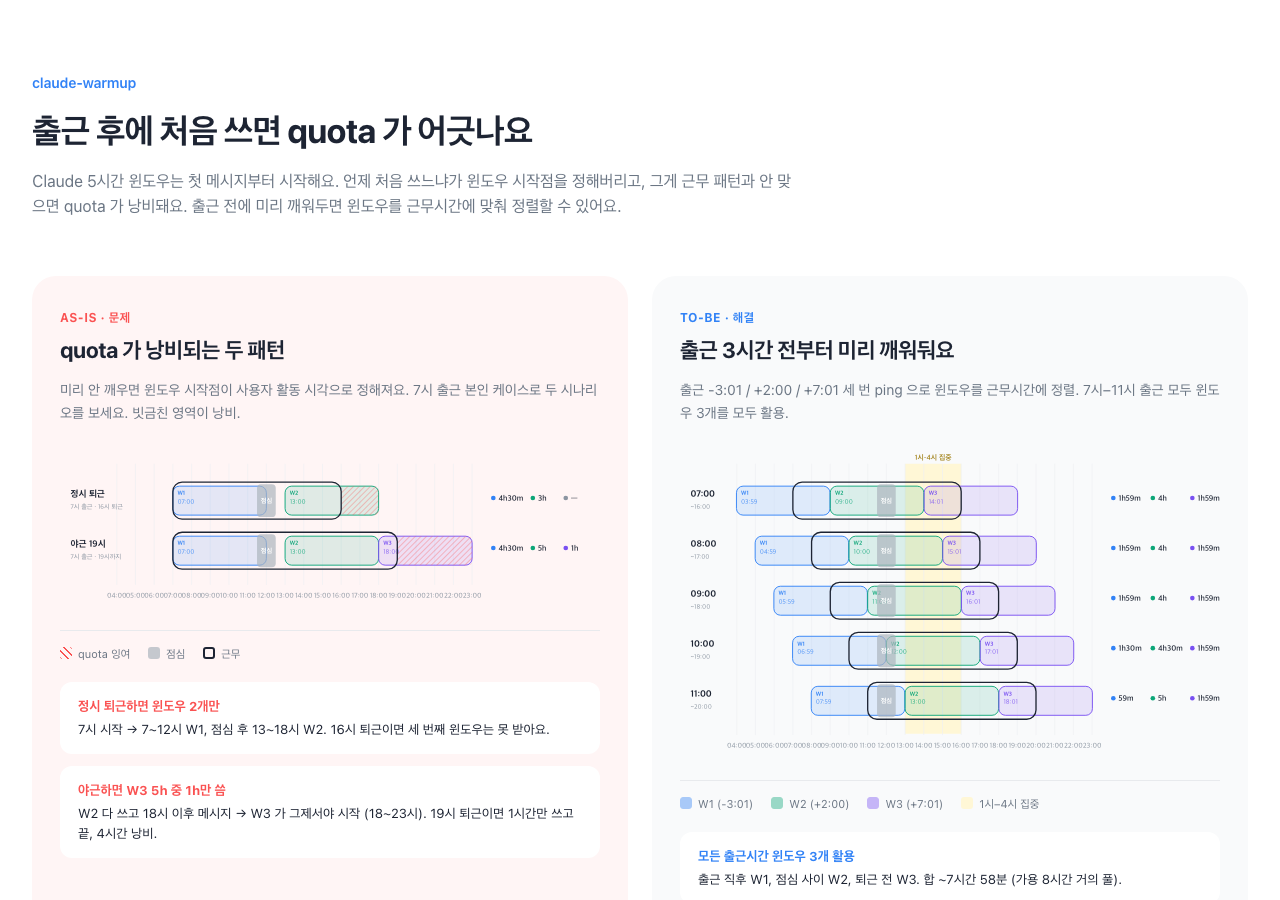
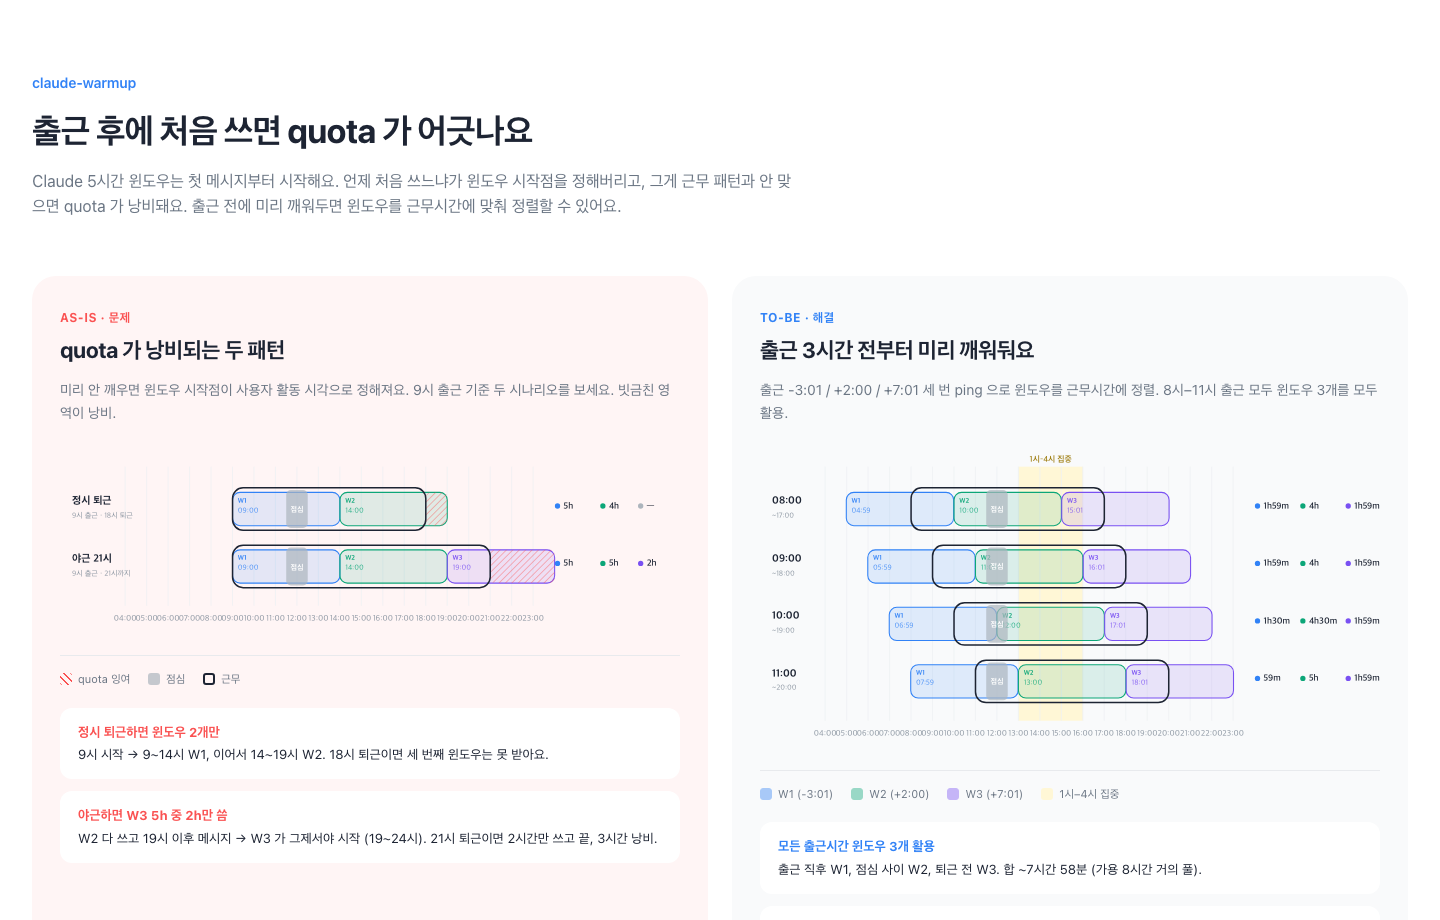
feat(projects): claude 도구 시각 표현 — ASCII code block + warmup 익명화
- claude-watch: 세션 모니터 TUI를 4섹션·9세션 ASCII code block으로 (html iframe 제거)
- claude-dashboard-patches: status line 정상/경고 예시를 code block으로
- claude-warmup: quota 그래프를 9시 출근 표준으로 재작성(본인 7-16시·야근 19시 제거) + iframe 연결

diff --git a/public/dashboards/claude-warmup.html b/public/dashboards/claude-warmup.html
@@ -1,0 +1,207 @@
+<!doctype html>
+<html lang="ko">
+<head>
+<meta charset="utf-8">
+<title>claude-warmup</title>
+<style>
+  :root {
+    --primary: #3182f6;
+    --problem: #fa5252;
+    --text: #1d2433;
+    --sub: #6b7684;
+    --line: #e8eaed;
+    --bg: #ffffff;
+    --card: #f9fafb;
+    --card-problem: #fff5f5;
+  }
+  * { box-sizing: border-box; }
+  body {
+    margin: 0;
+    background: var(--bg);
+    color: var(--text);
+    font-family: 'Pretendard', -apple-system, BlinkMacSystemFont, sans-serif;
+    line-height: 1.6;
+    -webkit-font-smoothing: antialiased;
+  }
+  .container {
+    max-width: 1440px;
+    margin: 0 auto;
+    padding: 72px 32px 96px;
+  }
+  .eyebrow {
+    font-size: 14px;
+    color: var(--primary);
+    font-weight: 600;
+    margin-bottom: 14px;
+    letter-spacing: -0.01em;
+  }
+  h1 {
+    font-size: 34px;
+    font-weight: 700;
+    margin: 0 0 16px;
+    letter-spacing: -0.02em;
+    line-height: 1.3;
+  }
+  .sub {
+    font-size: 16px;
+    color: var(--sub);
+    margin: 0 0 56px;
+    max-width: 760px;
+  }
+
+  .compare {
+    display: grid;
+    grid-template-columns: 1fr 1fr;
+    gap: 24px;
+    margin-bottom: 56px;
+  }
+  .col {
+    background: var(--card);
+    border-radius: 24px;
+    padding: 32px 28px 24px;
+    display: flex;
+    flex-direction: column;
+  }
+  .col-problem { background: var(--card-problem); }
+
+  .col-label {
+    font-size: 12px;
+    font-weight: 700;
+    text-transform: uppercase;
+    letter-spacing: 0.04em;
+    margin-bottom: 6px;
+  }
+  .col-label.problem { color: var(--problem); }
+  .col-label.solution { color: var(--primary); }
+  .col h2 {
+    font-size: 22px;
+    font-weight: 700;
+    margin: 0 0 10px;
+    letter-spacing: -0.015em;
+  }
+  .col-desc {
+    font-size: 14px;
+    color: var(--sub);
+    margin: 0 0 20px;
+    line-height: 1.65;
+  }
+  .col svg {
+    width: 100%;
+    height: auto;
+    display: block;
+  }
+  .col-takeaways {
+    margin-top: 20px;
+    display: flex;
+    flex-direction: column;
+    gap: 12px;
+  }
+  .takeaway {
+    background: white;
+    border-radius: 12px;
+    padding: 14px 18px;
+    font-size: 13px;
+    color: var(--text);
+    line-height: 1.6;
+  }
+  .takeaway strong {
+    display: block;
+    color: var(--problem);
+    font-weight: 700;
+    margin-bottom: 2px;
+    font-size: 13px;
+  }
+  .col-solution .takeaway strong { color: var(--primary); }
+
+  .legend {
+    display: flex;
+    flex-wrap: wrap;
+    gap: 10px 18px;
+    padding-top: 14px;
+    border-top: 1px solid var(--line);
+    margin-top: 14px;
+  }
+  .legend-item {
+    display: flex;
+    align-items: center;
+    gap: 6px;
+    font-size: 11px;
+    color: var(--sub);
+  }
+  .legend-dot {
+    width: 12px;
+    height: 12px;
+    border-radius: 3px;
+  }
+
+  .footer {
+    margin-top: 56px;
+    padding-top: 28px;
+    border-top: 1px solid var(--line);
+    color: var(--sub);
+    font-size: 13px;
+  }
+  code { background: #eef0f3; padding: 2px 8px; border-radius: 6px; font-size: 13px; font-family: 'SF Mono', Menlo, monospace; }
+</style>
+</head>
+<body>
+<div class="container">
+  <div class="eyebrow">claude-warmup</div>
+  <h1>출근 후에 처음 쓰면 quota 가 어긋나요</h1>
+  <p class="sub">Claude 5시간 윈도우는 첫 메시지부터 시작해요. 언제 처음 쓰느냐가 윈도우 시작점을 정해버리고, 그게 근무 패턴과 안 맞으면 quota 가 낭비돼요. 출근 전에 미리 깨워두면 윈도우를 근무시간에 맞춰 정렬할 수 있어요.</p>
+
+  <div class="compare">
+    <!-- 왼쪽: 문제 -->
+    <div class="col col-problem">
+      <div class="col-label problem">AS-IS · 문제</div>
+      <h2>quota 가 낭비되는 두 패턴</h2>
+      <p class="col-desc">미리 안 깨우면 윈도우 시작점이 사용자 활동 시각으로 정해져요. 9시 출근 기준 두 시나리오를 보세요. 빗금친 영역이 낭비.</p>
+      <svg viewBox="0 0 820 260" xmlns="http://www.w3.org/2000/svg" font-family="Pretendard, -apple-system, sans-serif"><defs><pattern id="hatch" patternUnits="userSpaceOnUse" width="6" height="6" patternTransform="rotate(45)"><line x1="0" y1="0" x2="0" y2="6" stroke="#fa5252" stroke-width="2"/></pattern></defs><line x1="86.2" y1="30" x2="86.2" y2="214" stroke="#eef0f3" stroke-width="1" /><text x="86.2" y="234" text-anchor="middle" font-size="11" fill="#8b95a1">04:00</text><line x1="114.6" y1="30" x2="114.6" y2="214" stroke="#eef0f3" stroke-width="1" /><text x="114.6" y="234" text-anchor="middle" font-size="11" fill="#8b95a1">05:00</text><line x1="143.0" y1="30" x2="143.0" y2="214" stroke="#eef0f3" stroke-width="1" /><text x="143.0" y="234" text-anchor="middle" font-size="11" fill="#8b95a1">06:00</text><line x1="171.39999999999998" y1="30" x2="171.39999999999998" y2="214" stroke="#eef0f3" stroke-width="1" /><text x="171.39999999999998" y="234" text-anchor="middle" font-size="11" fill="#8b95a1">07:00</text><line x1="199.8" y1="30" x2="199.8" y2="214" stroke="#eef0f3" stroke-width="1" /><text x="199.8" y="234" text-anchor="middle" font-size="11" fill="#8b95a1">08:00</text><line x1="228.2" y1="30" x2="228.2" y2="214" stroke="#eef0f3" stroke-width="1" /><text x="228.2" y="234" text-anchor="middle" font-size="11" fill="#8b95a1">09:00</text><line x1="256.59999999999997" y1="30" x2="256.59999999999997" y2="214" stroke="#eef0f3" stroke-width="1" /><text x="256.59999999999997" y="234" text-anchor="middle" font-size="11" fill="#8b95a1">10:00</text><line x1="285.0" y1="30" x2="285.0" y2="214" stroke="#eef0f3" stroke-width="1" /><text x="285.0" y="234" text-anchor="middle" font-size="11" fill="#8b95a1">11:00</text><line x1="313.4" y1="30" x2="313.4" y2="214" stroke="#eef0f3" stroke-width="1" /><text x="313.4" y="234" text-anchor="middle" font-size="11" fill="#8b95a1">12:00</text><line x1="341.8" y1="30" x2="341.8" y2="214" stroke="#eef0f3" stroke-width="1" /><text x="341.8" y="234" text-anchor="middle" font-size="11" fill="#8b95a1">13:00</text><line x1="370.2" y1="30" x2="370.2" y2="214" stroke="#eef0f3" stroke-width="1" /><text x="370.2" y="234" text-anchor="middle" font-size="11" fill="#8b95a1">14:00</text><line x1="398.59999999999997" y1="30" x2="398.59999999999997" y2="214" stroke="#eef0f3" stroke-width="1" /><text x="398.59999999999997" y="234" text-anchor="middle" font-size="11" fill="#8b95a1">15:00</text><line x1="426.99999999999994" y1="30" x2="426.99999999999994" y2="214" stroke="#eef0f3" stroke-width="1" /><text x="426.99999999999994" y="234" text-anchor="middle" font-size="11" fill="#8b95a1">16:00</text><line x1="455.4" y1="30" x2="455.4" y2="214" stroke="#eef0f3" stroke-width="1" /><text x="455.4" y="234" text-anchor="middle" font-size="11" fill="#8b95a1">17:00</text><line x1="483.79999999999995" y1="30" x2="483.79999999999995" y2="214" stroke="#eef0f3" stroke-width="1" /><text x="483.79999999999995" y="234" text-anchor="middle" font-size="11" fill="#8b95a1">18:00</text><line x1="512.2" y1="30" x2="512.2" y2="214" stroke="#eef0f3" stroke-width="1" /><text x="512.2" y="234" text-anchor="middle" font-size="11" fill="#8b95a1">19:00</text><line x1="540.6" y1="30" x2="540.6" y2="214" stroke="#eef0f3" stroke-width="1" /><text x="540.6" y="234" text-anchor="middle" font-size="11" fill="#8b95a1">20:00</text><line x1="569.0" y1="30" x2="569.0" y2="214" stroke="#eef0f3" stroke-width="1" /><text x="569.0" y="234" text-anchor="middle" font-size="11" fill="#8b95a1">21:00</text><line x1="597.4" y1="30" x2="597.4" y2="214" stroke="#eef0f3" stroke-width="1" /><text x="597.4" y="234" text-anchor="middle" font-size="11" fill="#8b95a1">22:00</text><line x1="625.8000000000001" y1="30" x2="625.8000000000001" y2="214" stroke="#eef0f3" stroke-width="1" /><text x="625.8000000000001" y="234" text-anchor="middle" font-size="11" fill="#8b95a1">23:00</text><text x="16" y="80" font-size="14" font-weight="700" fill="#1d2433">정시 퇴근</text><text x="16" y="98" font-size="10" fill="#8b95a1">9시 출근 · 18시 퇴근</text><rect x="228.2" y="64" width="142.0" height="44" rx="10" fill="#3182f6" fill-opacity="0.13" stroke="#3182f6" stroke-width="1.4" /><text x="235.2" y="78" font-size="9" font-weight="700" fill="#3182f6">W1</text><text x="235.2" y="91" font-size="10" fill="#3182f6" opacity="0.85">09:00</text><rect x="370.2" y="64" width="142.0" height="44" rx="10" fill="#0ca678" fill-opacity="0.13" stroke="#0ca678" stroke-width="1.4" /><text x="377.2" y="78" font-size="9" font-weight="700" fill="#0ca678">W2</text><text x="377.2" y="91" font-size="10" fill="#0ca678" opacity="0.85">14:00</text><rect x="483.79999999999995" y="64" width="28.4" height="44" rx="6" fill="url(#hatch)" opacity="0.5" /><rect x="299.2" y="61" width="28.4" height="50" fill="#adb5bd" fill-opacity="0.7" rx="6" /><text x="313.4" y="90" text-anchor="middle" font-size="10" font-weight="700" fill="white">점심</text><rect x="228.2" y="58" width="255.6" height="56" fill="none" stroke="#1d2433" stroke-width="2" rx="14" /><circle cx="658" cy="82" r="3.5" fill="#3182f6" /><text x="666" y="86" font-size="12" font-weight="600" fill="#1d2433">5h</text><circle cx="718" cy="82" r="3.5" fill="#0ca678" /><text x="726" y="86" font-size="12" font-weight="600" fill="#1d2433">4h</text><circle cx="768" cy="82" r="3.5" fill="#adb5bd" /><text x="776" y="86" font-size="12" font-weight="600" fill="#1d2433">—</text><text x="16" y="156" font-size="14" font-weight="700" fill="#1d2433">야근 21시</text><text x="16" y="174" font-size="10" fill="#8b95a1">9시 출근 · 21시까지</text><rect x="228.2" y="140" width="142.0" height="44" rx="10" fill="#3182f6" fill-opacity="0.13" stroke="#3182f6" stroke-width="1.4" /><text x="235.2" y="154" font-size="9" font-weight="700" fill="#3182f6">W1</text><text x="235.2" y="167" font-size="10" fill="#3182f6" opacity="0.85">09:00</text><rect x="370.2" y="140" width="142.0" height="44" rx="10" fill="#0ca678" fill-opacity="0.13" stroke="#0ca678" stroke-width="1.4" /><text x="377.2" y="154" font-size="9" font-weight="700" fill="#0ca678">W2</text><text x="377.2" y="167" font-size="10" fill="#0ca678" opacity="0.85">14:00</text><rect x="512.2" y="140" width="142.0" height="44" rx="10" fill="#7950f2" fill-opacity="0.13" stroke="#7950f2" stroke-width="1.4" /><text x="519.2" y="154" font-size="9" font-weight="700" fill="#7950f2">W3</text><text x="519.2" y="167" font-size="10" fill="#7950f2" opacity="0.85">19:00</text><rect x="569.0" y="140" width="85.19999999999999" height="44" rx="6" fill="url(#hatch)" opacity="0.5" /><rect x="299.2" y="137" width="28.4" height="50" fill="#adb5bd" fill-opacity="0.7" rx="6" /><text x="313.4" y="166" text-anchor="middle" font-size="10" font-weight="700" fill="white">점심</text><rect x="228.2" y="134" width="340.79999999999995" height="56" fill="none" stroke="#1d2433" stroke-width="2" rx="14" /><circle cx="658" cy="158" r="3.5" fill="#3182f6" /><text x="666" y="162" font-size="12" font-weight="600" fill="#1d2433">5h</text><circle cx="718" cy="158" r="3.5" fill="#0ca678" /><text x="726" y="162" font-size="12" font-weight="600" fill="#1d2433">5h</text><circle cx="768" cy="158" r="3.5" fill="#7950f2" /><text x="776" y="162" font-size="12" font-weight="600" fill="#1d2433">2h</text></svg>
+      <div class="legend">
+        <div class="legend-item"><div class="legend-dot" style="background:repeating-linear-gradient(45deg,#fa5252,#fa5252 2px,transparent 2px,transparent 5px)"></div>quota 잉여</div>
+        <div class="legend-item"><div class="legend-dot" style="background:#adb5bd;opacity:0.7"></div>점심</div>
+        <div class="legend-item"><div class="legend-dot" style="background:none;border:2px solid #1d2433"></div>근무</div>
+      </div>
+      <div class="col-takeaways">
+        <div class="takeaway">
+          <strong>정시 퇴근하면 윈도우 2개만</strong>
+          9시 시작 → 9~14시 W1, 이어서 14~19시 W2. 18시 퇴근이면 세 번째 윈도우는 못 받아요.
+        </div>
+        <div class="takeaway">
+          <strong>야근하면 W3 5h 중 2h만 씀</strong>
+          W2 다 쓰고 19시 이후 메시지 → W3 가 그제서야 시작 (19~24시). 21시 퇴근이면 2시간만 쓰고 끝, 3시간 낭비.
+        </div>
+      </div>
+    </div>
+
+    <!-- 오른쪽: 해결 -->
+    <div class="col col-solution">
+      <div class="col-label solution">TO-BE · 해결</div>
+      <h2>출근 3시간 전부터 미리 깨워둬요</h2>
+      <p class="col-desc">출근 -3:01 / +2:00 / +7:01 세 번 ping 으로 윈도우를 근무시간에 정렬. 8시–11시 출근 모두 윈도우 3개를 모두 활용.</p>
+      <svg viewBox="0 0 820 412" xmlns="http://www.w3.org/2000/svg" font-family="Pretendard, -apple-system, sans-serif"><defs><pattern id="hatch" patternUnits="userSpaceOnUse" width="6" height="6" patternTransform="rotate(45)"><line x1="0" y1="0" x2="0" y2="6" stroke="#fa5252" stroke-width="2"/></pattern></defs><rect x="341.8" y="30" width="85.2" height="336" fill="#fff7d6" /><text x="384.4" y="24" text-anchor="middle" font-size="11" font-weight="600" fill="#9e7d10">1시–4시 집중</text><line x1="86.2" y1="30" x2="86.2" y2="366" stroke="#eef0f3" stroke-width="1" /><text x="86.2" y="386" text-anchor="middle" font-size="11" fill="#8b95a1">04:00</text><line x1="114.6" y1="30" x2="114.6" y2="366" stroke="#eef0f3" stroke-width="1" /><text x="114.6" y="386" text-anchor="middle" font-size="11" fill="#8b95a1">05:00</text><line x1="143.0" y1="30" x2="143.0" y2="366" stroke="#eef0f3" stroke-width="1" /><text x="143.0" y="386" text-anchor="middle" font-size="11" fill="#8b95a1">06:00</text><line x1="171.39999999999998" y1="30" x2="171.39999999999998" y2="366" stroke="#eef0f3" stroke-width="1" /><text x="171.39999999999998" y="386" text-anchor="middle" font-size="11" fill="#8b95a1">07:00</text><line x1="199.8" y1="30" x2="199.8" y2="366" stroke="#eef0f3" stroke-width="1" /><text x="199.8" y="386" text-anchor="middle" font-size="11" fill="#8b95a1">08:00</text><line x1="228.2" y1="30" x2="228.2" y2="366" stroke="#eef0f3" stroke-width="1" /><text x="228.2" y="386" text-anchor="middle" font-size="11" fill="#8b95a1">09:00</text><line x1="256.59999999999997" y1="30" x2="256.59999999999997" y2="366" stroke="#eef0f3" stroke-width="1" /><text x="256.59999999999997" y="386" text-anchor="middle" font-size="11" fill="#8b95a1">10:00</text><line x1="285.0" y1="30" x2="285.0" y2="366" stroke="#eef0f3" stroke-width="1" /><text x="285.0" y="386" text-anchor="middle" font-size="11" fill="#8b95a1">11:00</text><line x1="313.4" y1="30" x2="313.4" y2="366" stroke="#eef0f3" stroke-width="1" /><text x="313.4" y="386" text-anchor="middle" font-size="11" fill="#8b95a1">12:00</text><line x1="341.8" y1="30" x2="341.8" y2="366" stroke="#eef0f3" stroke-width="1" /><text x="341.8" y="386" text-anchor="middle" font-size="11" fill="#8b95a1">13:00</text><line x1="370.2" y1="30" x2="370.2" y2="366" stroke="#eef0f3" stroke-width="1" /><text x="370.2" y="386" text-anchor="middle" font-size="11" fill="#8b95a1">14:00</text><line x1="398.59999999999997" y1="30" x2="398.59999999999997" y2="366" stroke="#eef0f3" stroke-width="1" /><text x="398.59999999999997" y="386" text-anchor="middle" font-size="11" fill="#8b95a1">15:00</text><line x1="426.99999999999994" y1="30" x2="426.99999999999994" y2="366" stroke="#eef0f3" stroke-width="1" /><text x="426.99999999999994" y="386" text-anchor="middle" font-size="11" fill="#8b95a1">16:00</text><line x1="455.4" y1="30" x2="455.4" y2="366" stroke="#eef0f3" stroke-width="1" /><text x="455.4" y="386" text-anchor="middle" font-size="11" fill="#8b95a1">17:00</text><line x1="483.79999999999995" y1="30" x2="483.79999999999995" y2="366" stroke="#eef0f3" stroke-width="1" /><text x="483.79999999999995" y="386" text-anchor="middle" font-size="11" fill="#8b95a1">18:00</text><line x1="512.2" y1="30" x2="512.2" y2="366" stroke="#eef0f3" stroke-width="1" /><text x="512.2" y="386" text-anchor="middle" font-size="11" fill="#8b95a1">19:00</text><line x1="540.6" y1="30" x2="540.6" y2="366" stroke="#eef0f3" stroke-width="1" /><text x="540.6" y="386" text-anchor="middle" font-size="11" fill="#8b95a1">20:00</text><line x1="569.0" y1="30" x2="569.0" y2="366" stroke="#eef0f3" stroke-width="1" /><text x="569.0" y="386" text-anchor="middle" font-size="11" fill="#8b95a1">21:00</text><line x1="597.4" y1="30" x2="597.4" y2="366" stroke="#eef0f3" stroke-width="1" /><text x="597.4" y="386" text-anchor="middle" font-size="11" fill="#8b95a1">22:00</text><line x1="625.8000000000001" y1="30" x2="625.8000000000001" y2="366" stroke="#eef0f3" stroke-width="1" /><text x="625.8000000000001" y="386" text-anchor="middle" font-size="11" fill="#8b95a1">23:00</text><text x="16" y="80" font-size="14" font-weight="700" fill="#1d2433">08:00</text><text x="16" y="98" font-size="10" fill="#8b95a1">~17:00</text><rect x="114.12666666666667" y="64" width="142.0" height="44" rx="10" fill="#3182f6" fill-opacity="0.13" stroke="#3182f6" stroke-width="1.4" /><text x="121.12666666666667" y="78" font-size="9" font-weight="700" fill="#3182f6">W1</text><text x="121.12666666666667" y="91" font-size="10" fill="#3182f6" opacity="0.85">04:59</text><rect x="256.59999999999997" y="64" width="142.0" height="44" rx="10" fill="#0ca678" fill-opacity="0.13" stroke="#0ca678" stroke-width="1.4" /><text x="263.59999999999997" y="78" font-size="9" font-weight="700" fill="#0ca678">W2</text><text x="263.59999999999997" y="91" font-size="10" fill="#0ca678" opacity="0.85">10:00</text><rect x="399.0733333333333" y="64" width="142.0" height="44" rx="10" fill="#7950f2" fill-opacity="0.13" stroke="#7950f2" stroke-width="1.4" /><text x="406.0733333333333" y="78" font-size="9" font-weight="700" fill="#7950f2">W3</text><text x="406.0733333333333" y="91" font-size="10" fill="#7950f2" opacity="0.85">15:01</text><rect x="299.2" y="61" width="28.4" height="50" fill="#adb5bd" fill-opacity="0.7" rx="6" /><text x="313.4" y="90" text-anchor="middle" font-size="10" font-weight="700" fill="white">점심</text><rect x="199.8" y="58" width="255.6" height="56" fill="none" stroke="#1d2433" stroke-width="2" rx="14" /><circle cx="658" cy="82" r="3.5" fill="#3182f6" /><text x="666" y="86" font-size="12" font-weight="600" fill="#1d2433">1h59m</text><circle cx="718" cy="82" r="3.5" fill="#0ca678" /><text x="726" y="86" font-size="12" font-weight="600" fill="#1d2433">4h</text><circle cx="778" cy="82" r="3.5" fill="#7950f2" /><text x="786" y="86" font-size="12" font-weight="600" fill="#1d2433">1h59m</text><text x="16" y="156" font-size="14" font-weight="700" fill="#1d2433">09:00</text><text x="16" y="174" font-size="10" fill="#8b95a1">~18:00</text><rect x="142.52666666666667" y="140" width="142.0" height="44" rx="10" fill="#3182f6" fill-opacity="0.13" stroke="#3182f6" stroke-width="1.4" /><text x="149.52666666666667" y="154" font-size="9" font-weight="700" fill="#3182f6">W1</text><text x="149.52666666666667" y="167" font-size="10" fill="#3182f6" opacity="0.85">05:59</text><rect x="285.0" y="140" width="142.0" height="44" rx="10" fill="#0ca678" fill-opacity="0.13" stroke="#0ca678" stroke-width="1.4" /><text x="292.0" y="154" font-size="9" font-weight="700" fill="#0ca678">W2</text><text x="292.0" y="167" font-size="10" fill="#0ca678" opacity="0.85">11:00</text><rect x="427.4733333333333" y="140" width="142.0" height="44" rx="10" fill="#7950f2" fill-opacity="0.13" stroke="#7950f2" stroke-width="1.4" /><text x="434.4733333333333" y="154" font-size="9" font-weight="700" fill="#7950f2">W3</text><text x="434.4733333333333" y="167" font-size="10" fill="#7950f2" opacity="0.85">16:01</text><rect x="299.2" y="137" width="28.4" height="50" fill="#adb5bd" fill-opacity="0.7" rx="6" /><text x="313.4" y="166" text-anchor="middle" font-size="10" font-weight="700" fill="white">점심</text><rect x="228.2" y="134" width="255.6" height="56" fill="none" stroke="#1d2433" stroke-width="2" rx="14" /><circle cx="658" cy="158" r="3.5" fill="#3182f6" /><text x="666" y="162" font-size="12" font-weight="600" fill="#1d2433">1h59m</text><circle cx="718" cy="158" r="3.5" fill="#0ca678" /><text x="726" y="162" font-size="12" font-weight="600" fill="#1d2433">4h</text><circle cx="778" cy="158" r="3.5" fill="#7950f2" /><text x="786" y="162" font-size="12" font-weight="600" fill="#1d2433">1h59m</text><text x="16" y="232" font-size="14" font-weight="700" fill="#1d2433">10:00</text><text x="16" y="250" font-size="10" fill="#8b95a1">~19:00</text><rect x="170.92666666666668" y="216" width="142.0" height="44" rx="10" fill="#3182f6" fill-opacity="0.13" stroke="#3182f6" stroke-width="1.4" /><text x="177.92666666666668" y="230" font-size="9" font-weight="700" fill="#3182f6">W1</text><text x="177.92666666666668" y="243" font-size="10" fill="#3182f6" opacity="0.85">06:59</text><rect x="313.4" y="216" width="142.0" height="44" rx="10" fill="#0ca678" fill-opacity="0.13" stroke="#0ca678" stroke-width="1.4" /><text x="320.4" y="230" font-size="9" font-weight="700" fill="#0ca678">W2</text><text x="320.4" y="243" font-size="10" fill="#0ca678" opacity="0.85">12:00</text><rect x="455.8733333333333" y="216" width="142.0" height="44" rx="10" fill="#7950f2" fill-opacity="0.13" stroke="#7950f2" stroke-width="1.4" /><text x="462.8733333333333" y="230" font-size="9" font-weight="700" fill="#7950f2">W3</text><text x="462.8733333333333" y="243" font-size="10" fill="#7950f2" opacity="0.85">17:01</text><rect x="299.2" y="213" width="28.4" height="50" fill="#adb5bd" fill-opacity="0.7" rx="6" /><text x="313.4" y="242" text-anchor="middle" font-size="10" font-weight="700" fill="white">점심</text><rect x="256.59999999999997" y="210" width="255.6" height="56" fill="none" stroke="#1d2433" stroke-width="2" rx="14" /><circle cx="658" cy="234" r="3.5" fill="#3182f6" /><text x="666" y="238" font-size="12" font-weight="600" fill="#1d2433">1h30m</text><circle cx="718" cy="234" r="3.5" fill="#0ca678" /><text x="726" y="238" font-size="12" font-weight="600" fill="#1d2433">4h30m</text><circle cx="778" cy="234" r="3.5" fill="#7950f2" /><text x="786" y="238" font-size="12" font-weight="600" fill="#1d2433">1h59m</text><text x="16" y="308" font-size="14" font-weight="700" fill="#1d2433">11:00</text><text x="16" y="326" font-size="10" fill="#8b95a1">~20:00</text><rect x="199.32666666666665" y="292" width="142.0" height="44" rx="10" fill="#3182f6" fill-opacity="0.13" stroke="#3182f6" stroke-width="1.4" /><text x="206.32666666666665" y="306" font-size="9" font-weight="700" fill="#3182f6">W1</text><text x="206.32666666666665" y="319" font-size="10" fill="#3182f6" opacity="0.85">07:59</text><rect x="341.8" y="292" width="142.0" height="44" rx="10" fill="#0ca678" fill-opacity="0.13" stroke="#0ca678" stroke-width="1.4" /><text x="348.8" y="306" font-size="9" font-weight="700" fill="#0ca678">W2</text><text x="348.8" y="319" font-size="10" fill="#0ca678" opacity="0.85">13:00</text><rect x="484.27333333333326" y="292" width="142.0" height="44" rx="10" fill="#7950f2" fill-opacity="0.13" stroke="#7950f2" stroke-width="1.4" /><text x="491.27333333333326" y="306" font-size="9" font-weight="700" fill="#7950f2">W3</text><text x="491.27333333333326" y="319" font-size="10" fill="#7950f2" opacity="0.85">18:01</text><rect x="299.2" y="289" width="28.4" height="50" fill="#adb5bd" fill-opacity="0.7" rx="6" /><text x="313.4" y="318" text-anchor="middle" font-size="10" font-weight="700" fill="white">점심</text><rect x="285.0" y="286" width="255.6" height="56" fill="none" stroke="#1d2433" stroke-width="2" rx="14" /><circle cx="658" cy="310" r="3.5" fill="#3182f6" /><text x="666" y="314" font-size="12" font-weight="600" fill="#1d2433">59m</text><circle cx="718" cy="310" r="3.5" fill="#0ca678" /><text x="726" y="314" font-size="12" font-weight="600" fill="#1d2433">5h</text><circle cx="778" cy="310" r="3.5" fill="#7950f2" /><text x="786" y="314" font-size="12" font-weight="600" fill="#1d2433">1h59m</text></svg>
+      <div class="legend">
+        <div class="legend-item"><div class="legend-dot" style="background:#3182f6;opacity:0.4;border:1px solid #3182f6"></div>W1 (-3:01)</div>
+        <div class="legend-item"><div class="legend-dot" style="background:#0ca678;opacity:0.4;border:1px solid #0ca678"></div>W2 (+2:00)</div>
+        <div class="legend-item"><div class="legend-dot" style="background:#7950f2;opacity:0.4;border:1px solid #7950f2"></div>W3 (+7:01)</div>
+        <div class="legend-item"><div class="legend-dot" style="background:#fff7d6"></div>1시–4시 집중</div>
+      </div>
+      <div class="col-takeaways">
+        <div class="takeaway">
+          <strong>모든 출근시간 윈도우 3개 활용</strong>
+          출근 직후 W1, 점심 사이 W2, 퇴근 전 W3. 합 ~7시간 58분 (가용 8시간 거의 풀).
+        </div>
+        <div class="takeaway">
+          <strong>1시–4시 집중 시간에 quota 풍부</strong>
+          토큰이 한 시간대에 몰리지 않게 세 윈도우에 분산. 야근해도 어색한 시점에 새 윈도우가 trigger 되지 않음.
+        </div>
+      </div>
+    </div>
+  </div>
+
+  <div class="footer">
+    설치 <code>bash install.sh</code> · 미리보기 <code>--dry-run</code> · 도움말 <code>--help</code> · 제거 <code>--uninstall</code>
+  </div>
+</div>
+</body>
+</html>

diff --git a/src/content/projects/claude-watch.md b/src/content/projects/claude-watch.md
@@ -10,13 +10,37 @@ github: https://github.com/newhigen/claude-watch
 
 ## 소개
 
-Claude Code를 여러 개 동시에 켜놓고 작업하다 보면, 어느 창이 내 입력을 기다리고 있는지 일일이 확인하기 번거롭다. 모든 세션의 상태를 한 화면에 모아 "지금 대기 중인 창"을 바로 찾게 해준다.
+Claude Code를 여러 개 동시에 켜놓고 작업하다 보면, 어느 창이 내 입력을 기다리는지 일일이 확인하기 번거롭다. 모든 세션의 상태를 한 화면에 모아 "지금 대기 중인 창"을 바로 찾게 해준다.
+
+## 화면
+
+```
+claude-watch
+4 입력 필요 · 1 Context 풀 · 2 작동 · 2 완료
+
+  입력 필요 · 4
+* api-server     타입 에러 2건 더 손볼까요?               Opus 85% 12m
+* mobile-app     이 버튼 색상 이대로 갈까요?               Opus 72% 8m
+* docs-site      이 두 문단 합칠까요?                      Opus 97% 6m
+* infra          마이그레이션 지금 적용할까요?             Opus 64% 3m
+
+  Context 풀 · 1
+! data-pipeline  컨텍스트 거의 참 · 압축 후 계속할까요?   Opus 99% 24m
+
+  작동 중 · 2
+~ web-crawler    사이트맵 크롤링 중                       Opus 41% 15m
+~ ml-training    에폭 7/20 학습 중                      Sonnet 38% 47m
+
+  완료 · 2
+· auth-service   토큰 갱신 로직 리팩터링 완료             Opus 88% 18m
+· landing-page   히어로 카피 3안 제안 완료                 Opus 76% 9m
+```
 
 ## 주요 기능
 
-- **세션 그리드** — 실행 중인 Claude Code 창을 한눈에
-- **대기 표시** — 내 답을 기다리는 창 강조
-- **상태 모니터링** — 작업 중·완료·대기 구분
+- **상태 요약** — 입력 필요·Context 풀·작동 중·완료 세션 수를 한 줄로
+- **섹션 그룹핑** — 상태별로 세션을 묶어 대기 중인 것부터
+- **세션별 정보** — 작업 설명·모델·context 사용률·경과 시간
 
 ## 배경
 

diff --git a/src/content/projects/claude-dashboard-patches.md b/src/content/projects/claude-dashboard-patches.md
@@ -12,6 +12,22 @@ github: https://github.com/newhigen/claude-dashboard-patches
 
 claude-dashboard 플러그인의 status line을 내 취향에 맞게 손봤다. 플러그인 캐시는 업데이트 때마다 덮어쓰이므로, 패치를 별도 디렉토리에 보관하고 재적용 스크립트로 다시 입히는 구조다.
 
+## 화면
+
+정상 페이스 — 모든 윈도우 여유:
+
+```
+~/dev/api-server (main* ↑3)   +1 -1 │ Context: ███░░░ 43%
+Opus(High) │ 5h 0.7x ░░░░░░ 5% → 2:30 AM ✓   7d 1.0x █░░░░░ 15% → 5/22 FRI ✓
+```
+
+5h 고갈 경고 — reset 전 100% 도달 예상:
+
+```
+~/dev/api-server (main* ↑3)   +1 -1 │ Context: ███████ 87%
+Opus(High) │ 5h 1.4x ███████ 87% → 2:30 PM ⚠ (reset 5:00 PM)   7d 1.0x █░░░░░ 15% → 5/22 FRI ✓
+```
+
 ## 주요 기능
 
 - **status line 커스터마이즈** — 표시 항목·포맷 개인화

diff --git a/src/content/projects/claude-warmup.md b/src/content/projects/claude-warmup.md
@@ -7,6 +7,7 @@ category: Better Claude Code
 icon: "☀"
 github: https://github.com/newhigen/claude-warmup
 image: "/projects/claude-warmup.png"
+dashboard: "/dashboards/claude-warmup.html"
 ---
 
 ## 소개